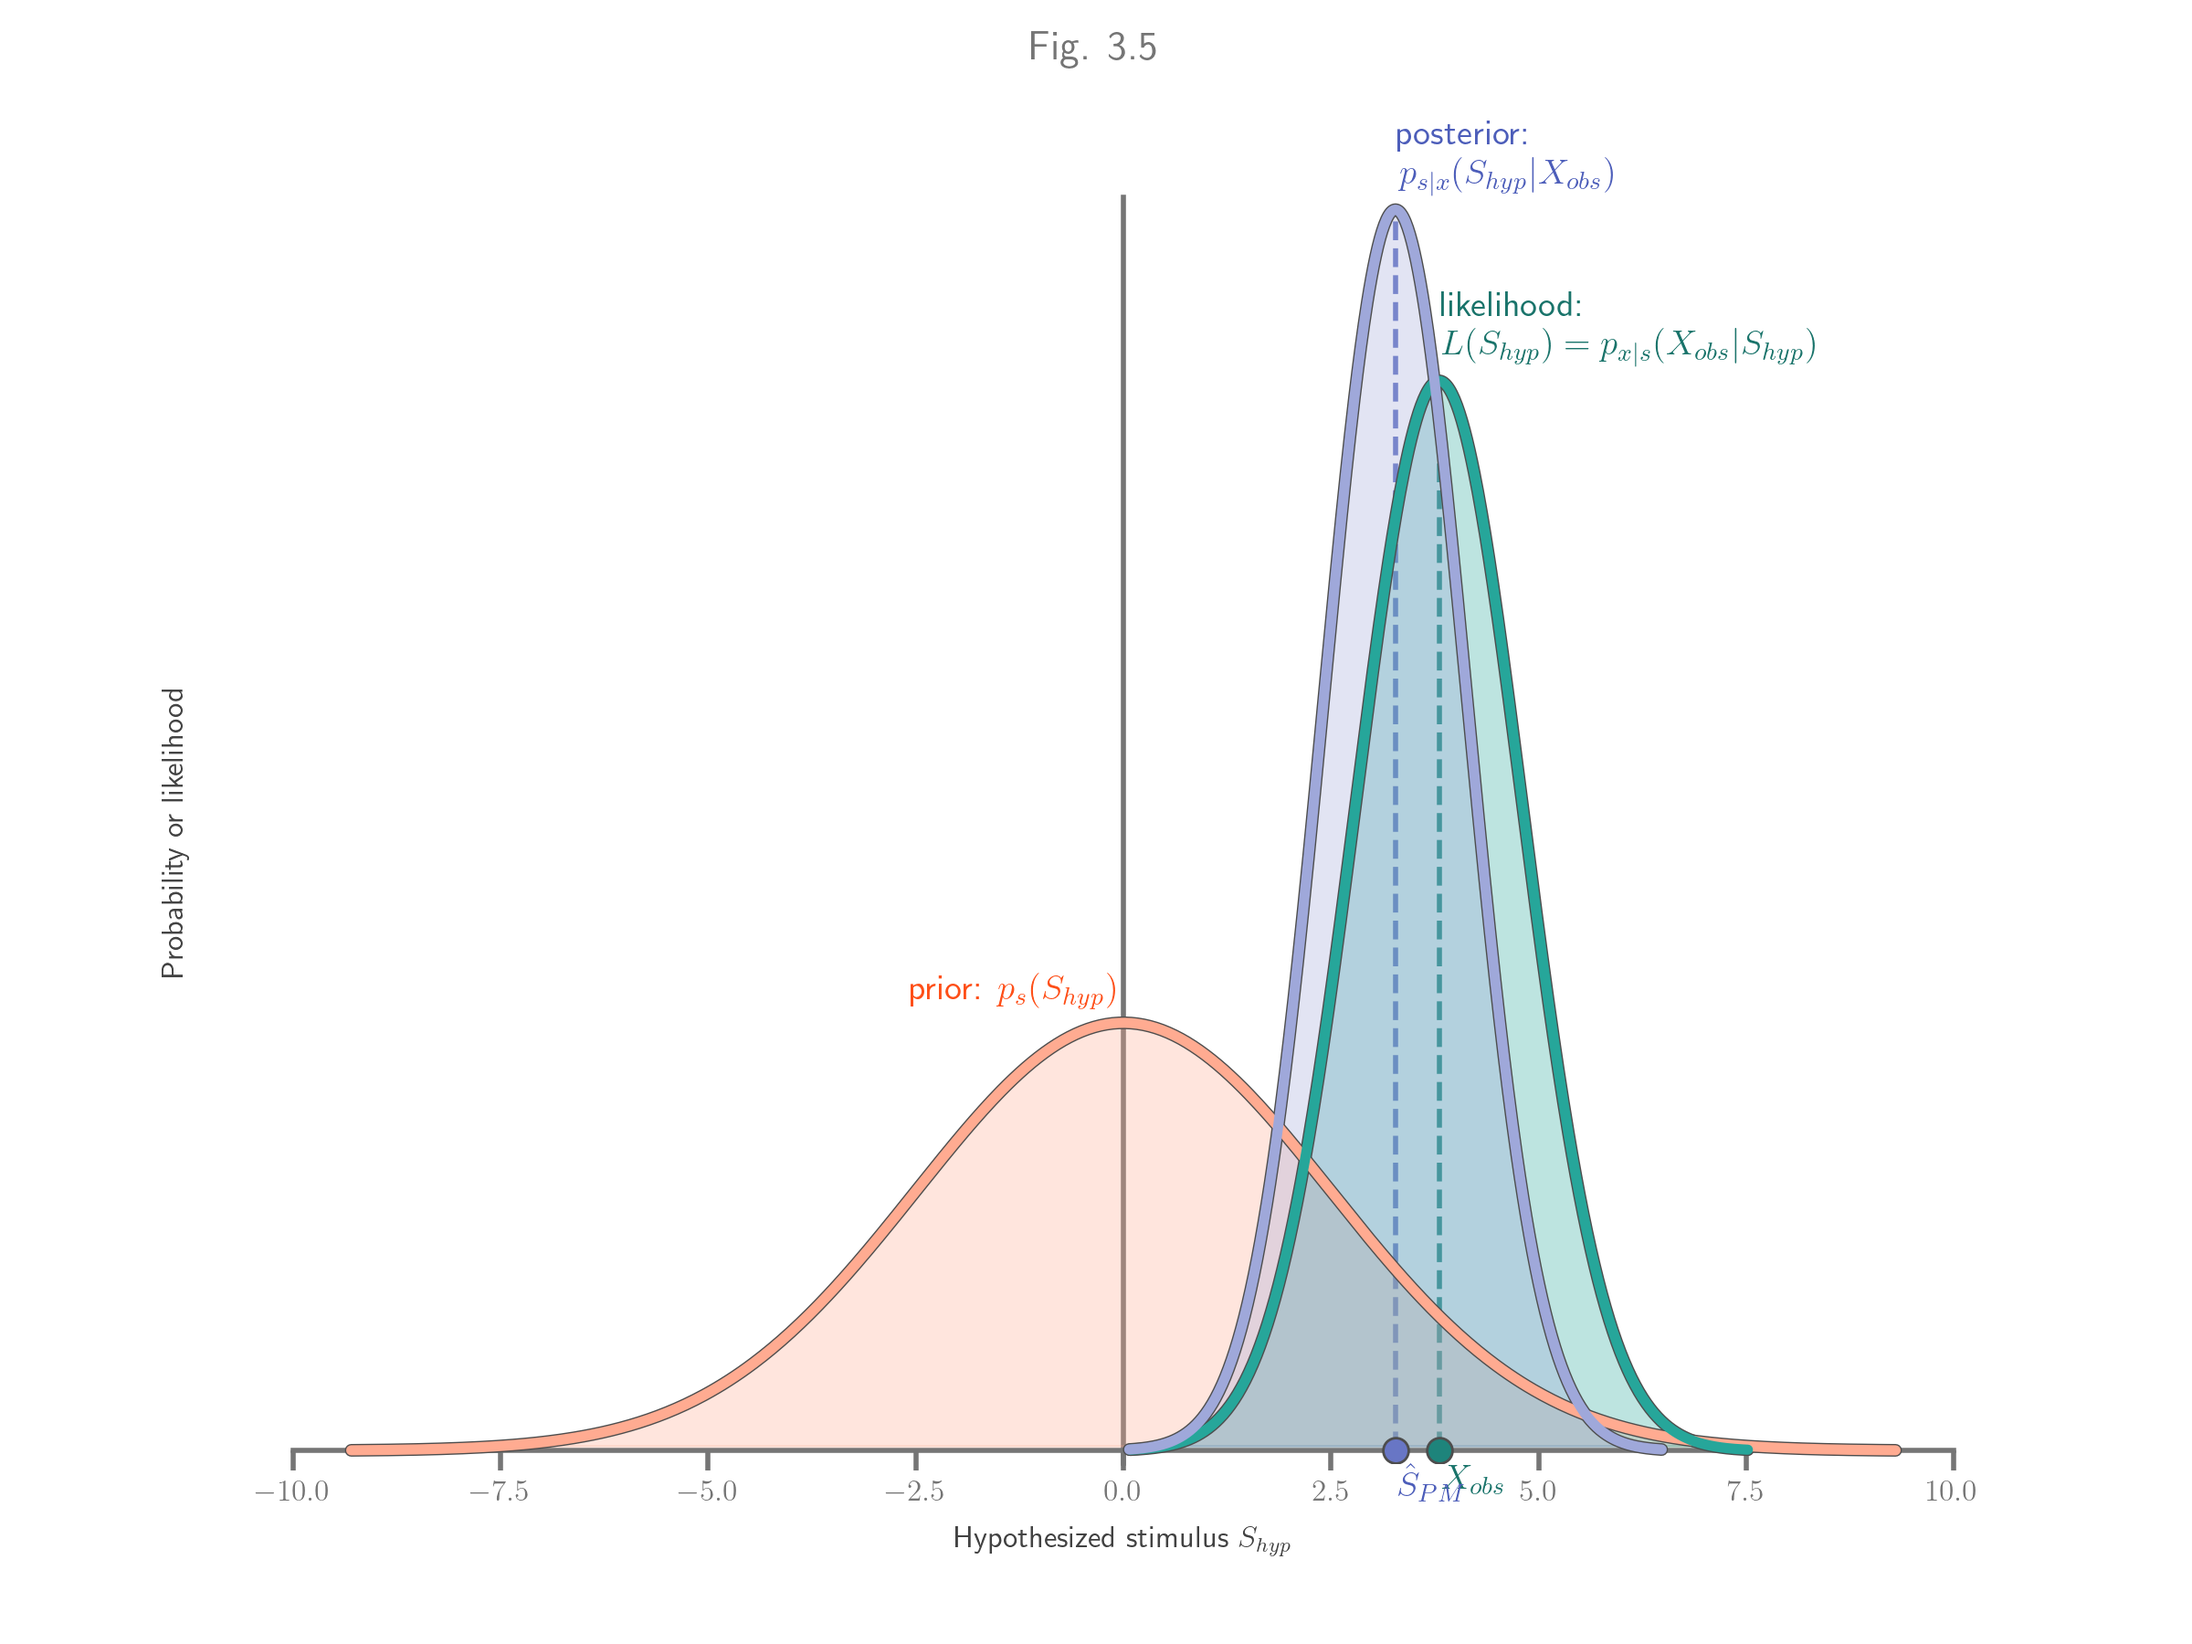
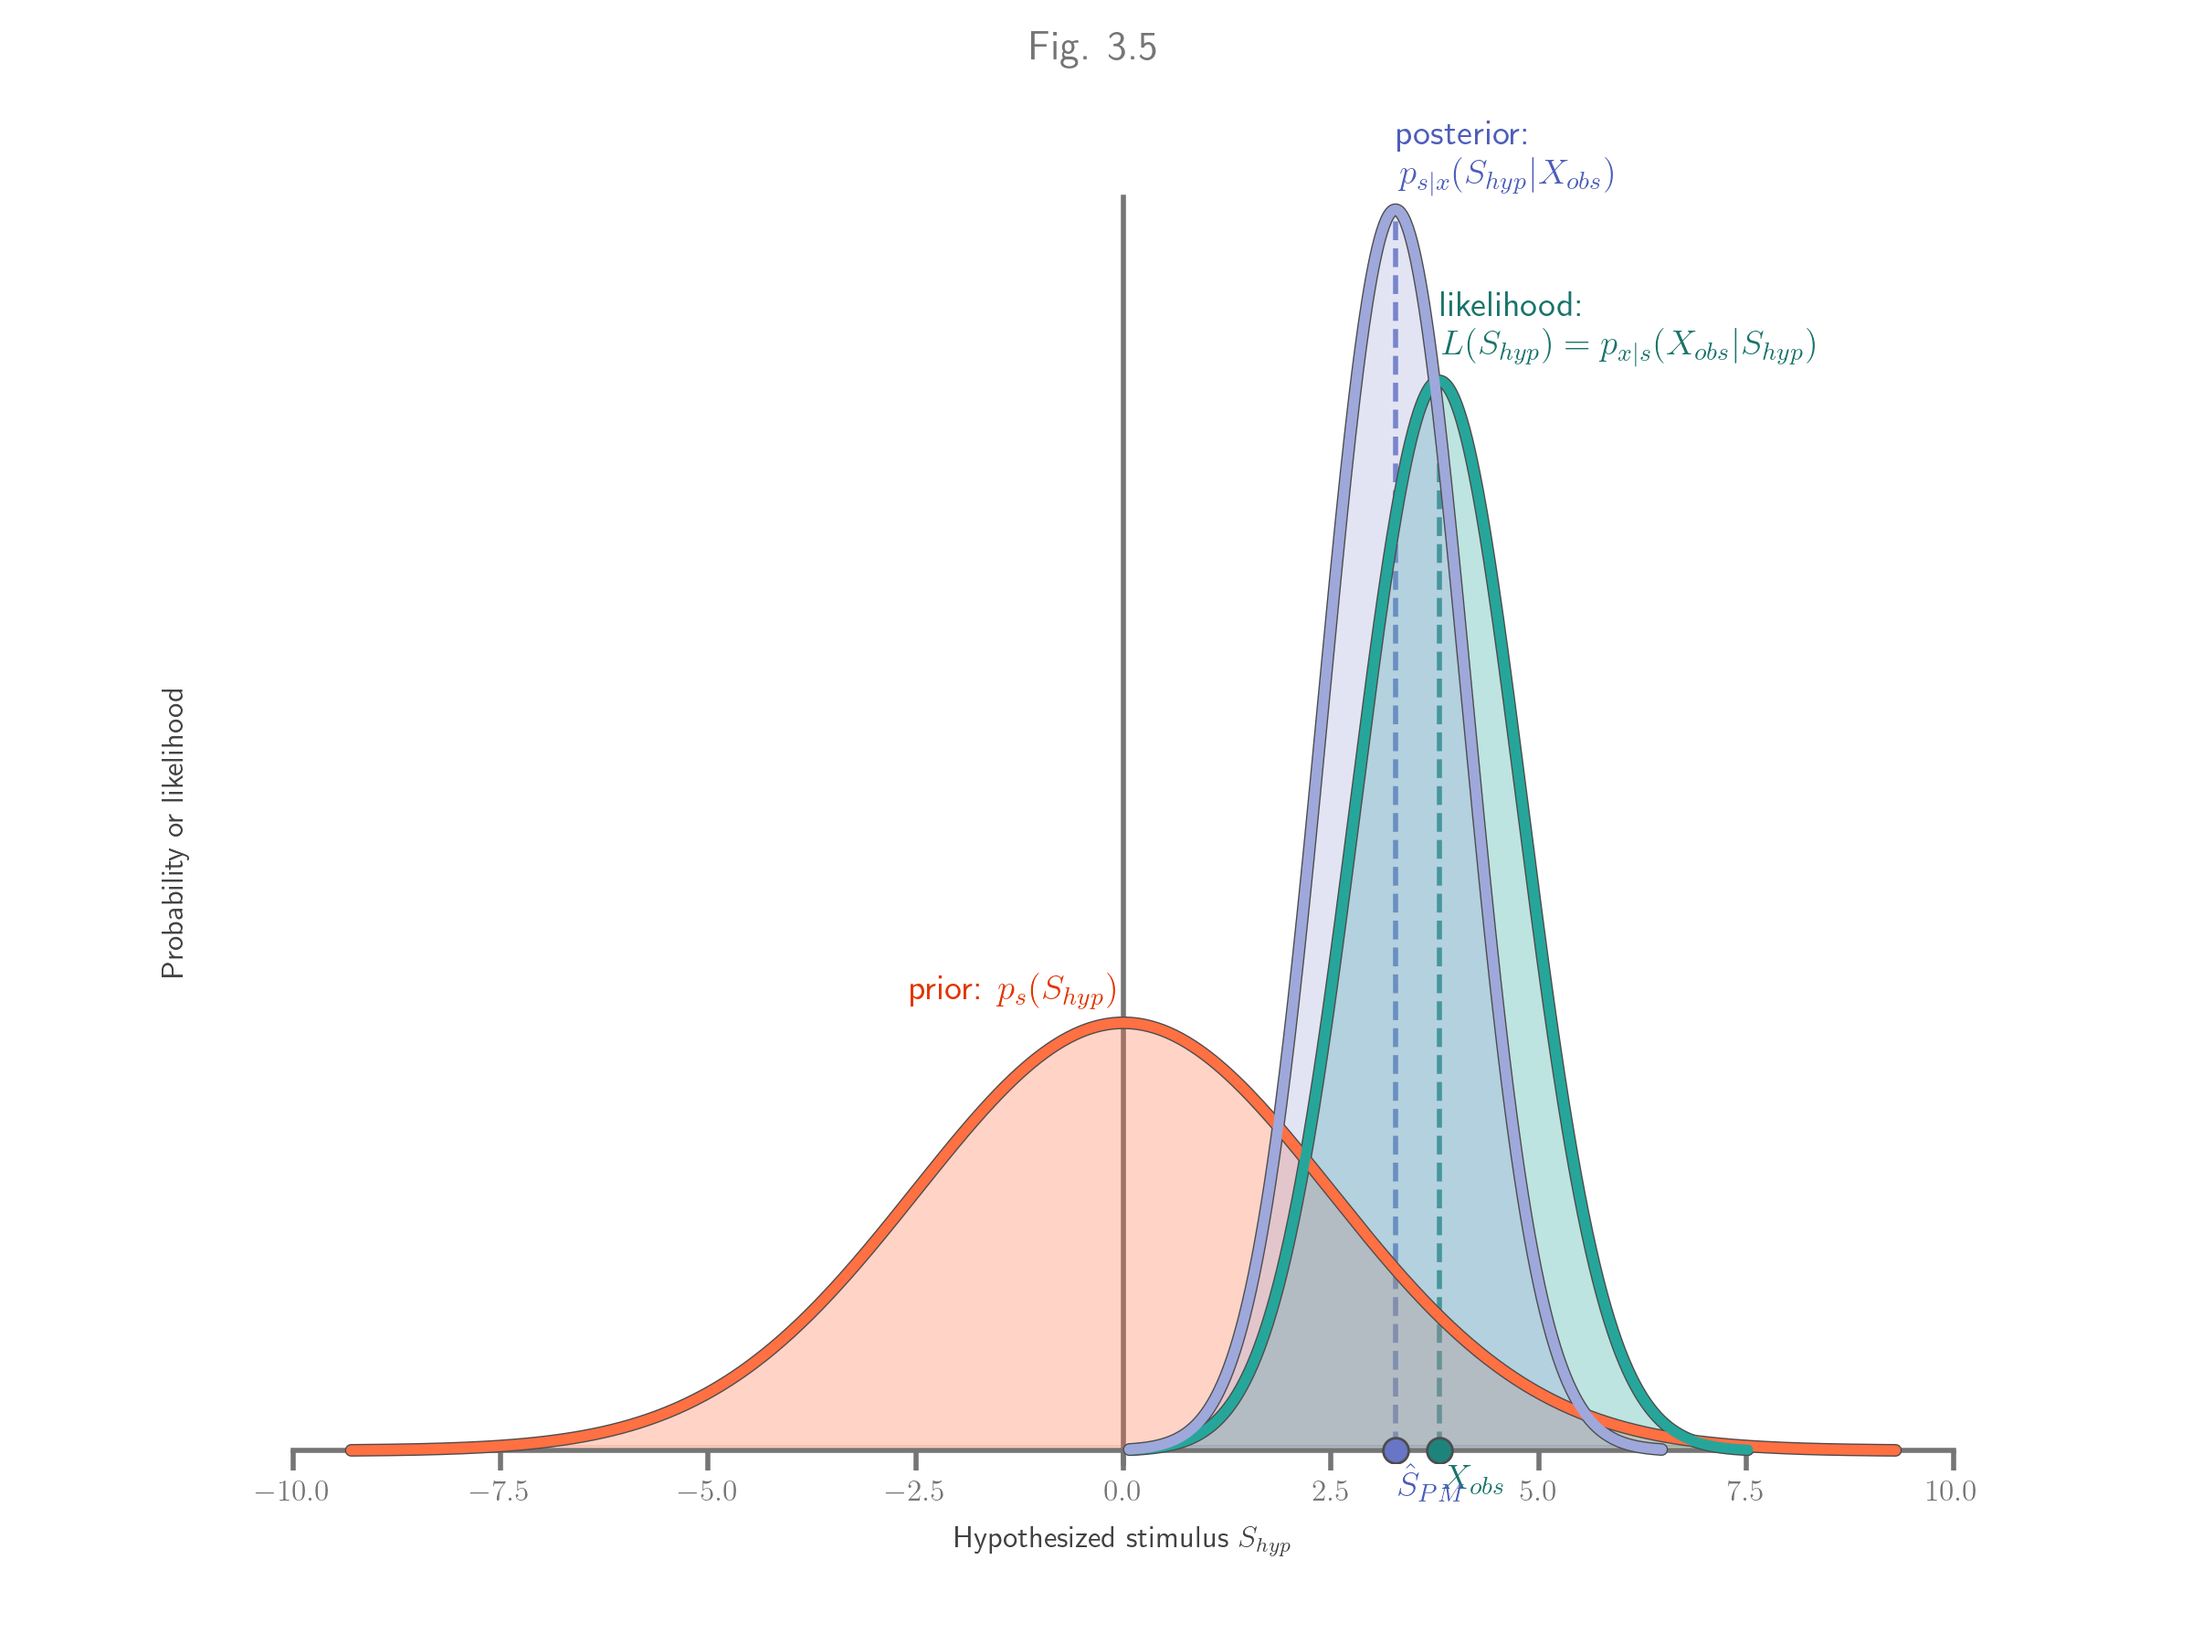
bump

diff --git a/demo/gaussian.py b/demo/gaussian.py
@@ -2,7 +2,7 @@ import numpy as np
 from scipy.stats import norm as Normal
 from dataclasses import dataclass
 
-from myterial import salmon_light
+from myterial import salmon_light, salmon, teal, indigo_light
 
 from demo import plot
 
@@ -69,59 +69,78 @@ class Gaussian(GaussianPlottingParameters):
         return self.distribution.pdf(self.mu)
 
 
-def plot_gaussian(gaussian, ax):
-    # plot shaded area
-    if gaussian.plot_shaded:
-        ax.fill_between(
-            gaussian.support,
-            0.00175,  # to avoid covering x axis
-            gaussian.pdf,
-            alpha=.3,
-            color=gaussian.color,
-            zorder=5,
-        )
+    def draw(self, ax):
+        # plot shaded area
+        if self.plot_shaded:
+            ax.fill_between(
+                self.support,
+                0.00175,  # to avoid covering x axis
+                self.pdf,
+                alpha=.3,
+                color=self.color,
+                zorder=5,
+            )
 
-    # plot outline
-    plot.elements.plot_line_outlined(
-        ax,
-        gaussian.support, 
-        gaussian.pdf, 
-        color=gaussian.color, 
-        lw=gaussian.lw, 
-        outline=gaussian.outline_width
-        )
-
-    # mark mean
-    if gaussian.mark_mu:
-        plot.elements.vline_to_point(
+        # plot outline
+        plot.elements.plot_line_outlined(
             ax,
-            gaussian.mu,
-            gaussian.peak,
-            mark_bottom=True,
-            color=plot.utils.darken_color(gaussian.color),
-            lw=2,
-            zorder=3,
-            ls='--'
-        )
+            self.support, 
+            self.pdf, 
+            color=self.color, 
+            lw=self.lw, 
+            outline=self.outline_width
+            )
 
-    # label mu
-    if gaussian.mu_label is not None:
-        plot.elements.label_point(
-            ax,
-            gaussian.mu,
-            0,
-            gaussian.mu_label,
-            below=True,
-            color=plot.utils.darken_color(gaussian.color, .3),
-        )
+        # mark mean
+        if self.mark_mu:
+            plot.elements.vline_to_point(
+                ax,
+                self.mu,
+                self.peak,
+                mark_bottom=True,
+                color=plot.utils.darken_color(self.color),
+                lw=2,
+                zorder=3,
+                ls='--'
+            )
 
-    # label gaussian
-    if gaussian.label is not None:
-        plot.elements.label_point(
-            ax,
-            gaussian.mu,
-            gaussian.peak,
-            gaussian.label,
-            right=True if gaussian.label_side == 'left' else False,
-            color=plot.utils.darken_color(gaussian.color, .3),
-        )
+        # label mu
+        if self.mu_label is not None:
+            plot.elements.label_point(
+                ax,
+                self.mu,
+                0,
+                self.mu_label,
+                below=True,
+                color=plot.utils.darken_color(self.color, .3),
+            )
+
+        # label
+        if self.label is not None:
+            plot.elements.label_point(
+                ax,
+                self.mu,
+                self.peak,
+                self.label,
+                right=True if self.label_side == 'left' else False,
+                color=plot.utils.darken_color(self.color, .3),
+            )
+
+class Prior(Gaussian):
+    def __init__(self, mu=0, sigma=1, **kwargs):
+        Gaussian.__init__(self, mu=mu, sigma=sigma, **kwargs)
+        self.color = salmon
+        self.label='prior:  $p_s(S_{hyp})$'
+
+class Likelihood(Gaussian):
+    def __init__(self, mu=0, sigma=1, **kwargs):
+        Gaussian.__init__(self, mu=mu, sigma=sigma, **kwargs)
+        self.color = teal
+        self.label='likelihood:\n  $L(S_{hyp})=p_{x|s}(X_{obs}|S_{hyp})$'
+        self.mu_label='$X_{obs}$'
+
+def Posterior(posterior):
+    posterior.color = indigo_light
+    posterior.label = 'posterior:\n  $p_{s|x}(S_{hyp} | X_{obs})$'  # specify label
+    posterior.mu_label = '$\\hat{S}_{PM}$'  # label x=mu in plot
+    return posterior

diff --git a/show_plot.py b/show_plot.py
@@ -1,25 +1,19 @@
-from demo import Gaussian, Figure, teal, indigo_light
+from demo import Prior, Likelihood, Posterior, Figure
 
 
 # create prior and likelihood distributions
-prior = Gaussian(
+prior = Prior(
     mu=0, sigma=2.5, 
-    label='prior:  $p_s(S_{hyp})$',
-    mark_mu=False, label_side='left')
+    mark_mu=False, label_side='left'
+)
 
-likelihood = Gaussian(
+likelihood = Likelihood(
     mu=3.8, sigma=1, 
-    color=teal, 
-    label='likelihood:\n  $L(S_{hyp})=p_{x|s}(X_{obs}|S_{hyp})$',
-    mu_label='$X_{obs}$')
+)
 
 # compute posterior by multiplying the two
-posterior = prior * likelihood
+posterior = Posterior(prior * likelihood)
 
-# set posterior's look in the plot
-posterior.color = indigo_light  #  specify color
-posterior.label = 'posterior:\n  $p_{s|x}(S_{hyp} | X_{obs})$'  # specify label
-posterior.mu_label = '$\\hat{S}_{PM}$'  # label x=mu in plot
 
 # create a figure
 figure = Figure(

diff --git a/demo/plot/figure.py b/demo/plot/figure.py
@@ -1,7 +1,6 @@
 import matplotlib.pyplot as plt
 
 from demo import plot
-from demo.gaussian import Gaussian, plot_gaussian
 
 class Figure():
     def __init__(self, title=None, xlabel='', ylabel='', show_y_ticks=False):
@@ -26,10 +25,7 @@ class Figure():
             Add objects (e.g. gaussian distributions).
         '''
         for obj in objs:
-            if isinstance(obj, Gaussian):
-                plot_gaussian(obj, self.ax)
-            else:
-                raise NotImplementedError
+            obj.draw(self.ax)
 
 
     def show(self):

diff --git a/demo/__init__.py b/demo/__init__.py
@@ -1,8 +1,4 @@
-from myterial import (
-    indigo_light,
-    salmon_light,
-    teal,
-)
 
-from demo.gaussian import Gaussian
+
+from demo.gaussian import Gaussian, Prior, Likelihood, Posterior
 from demo.plot.figure import Figure
